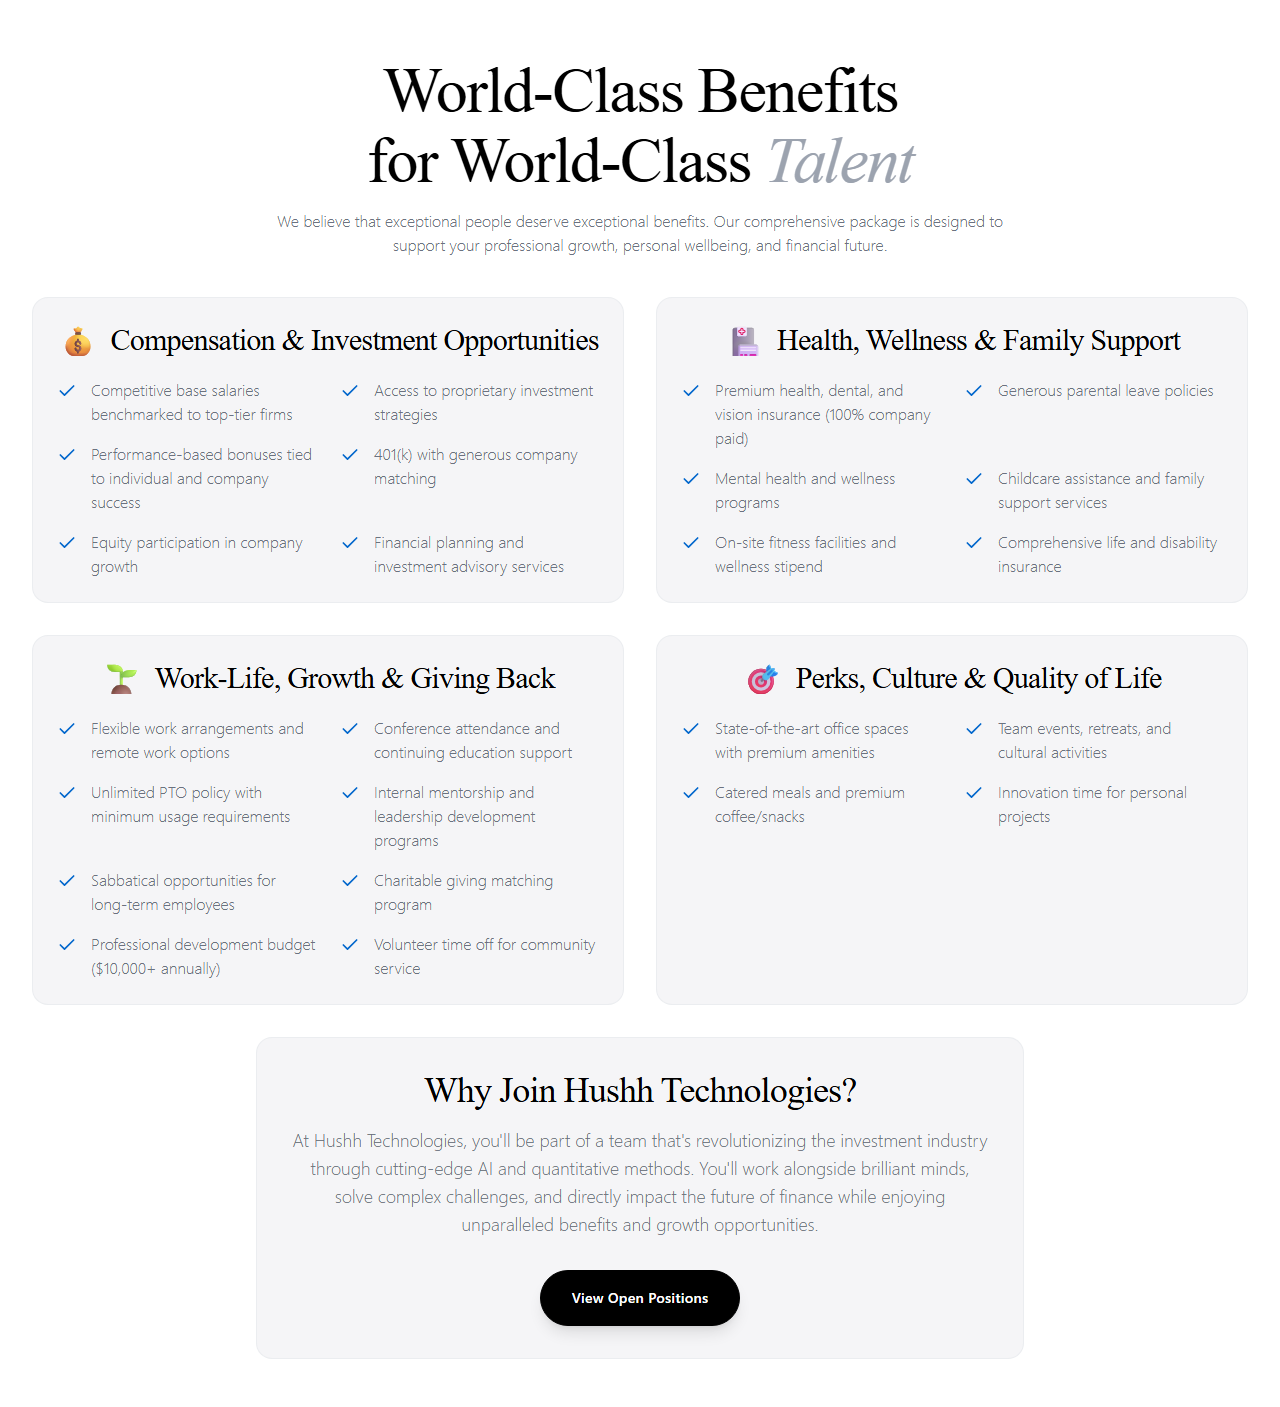
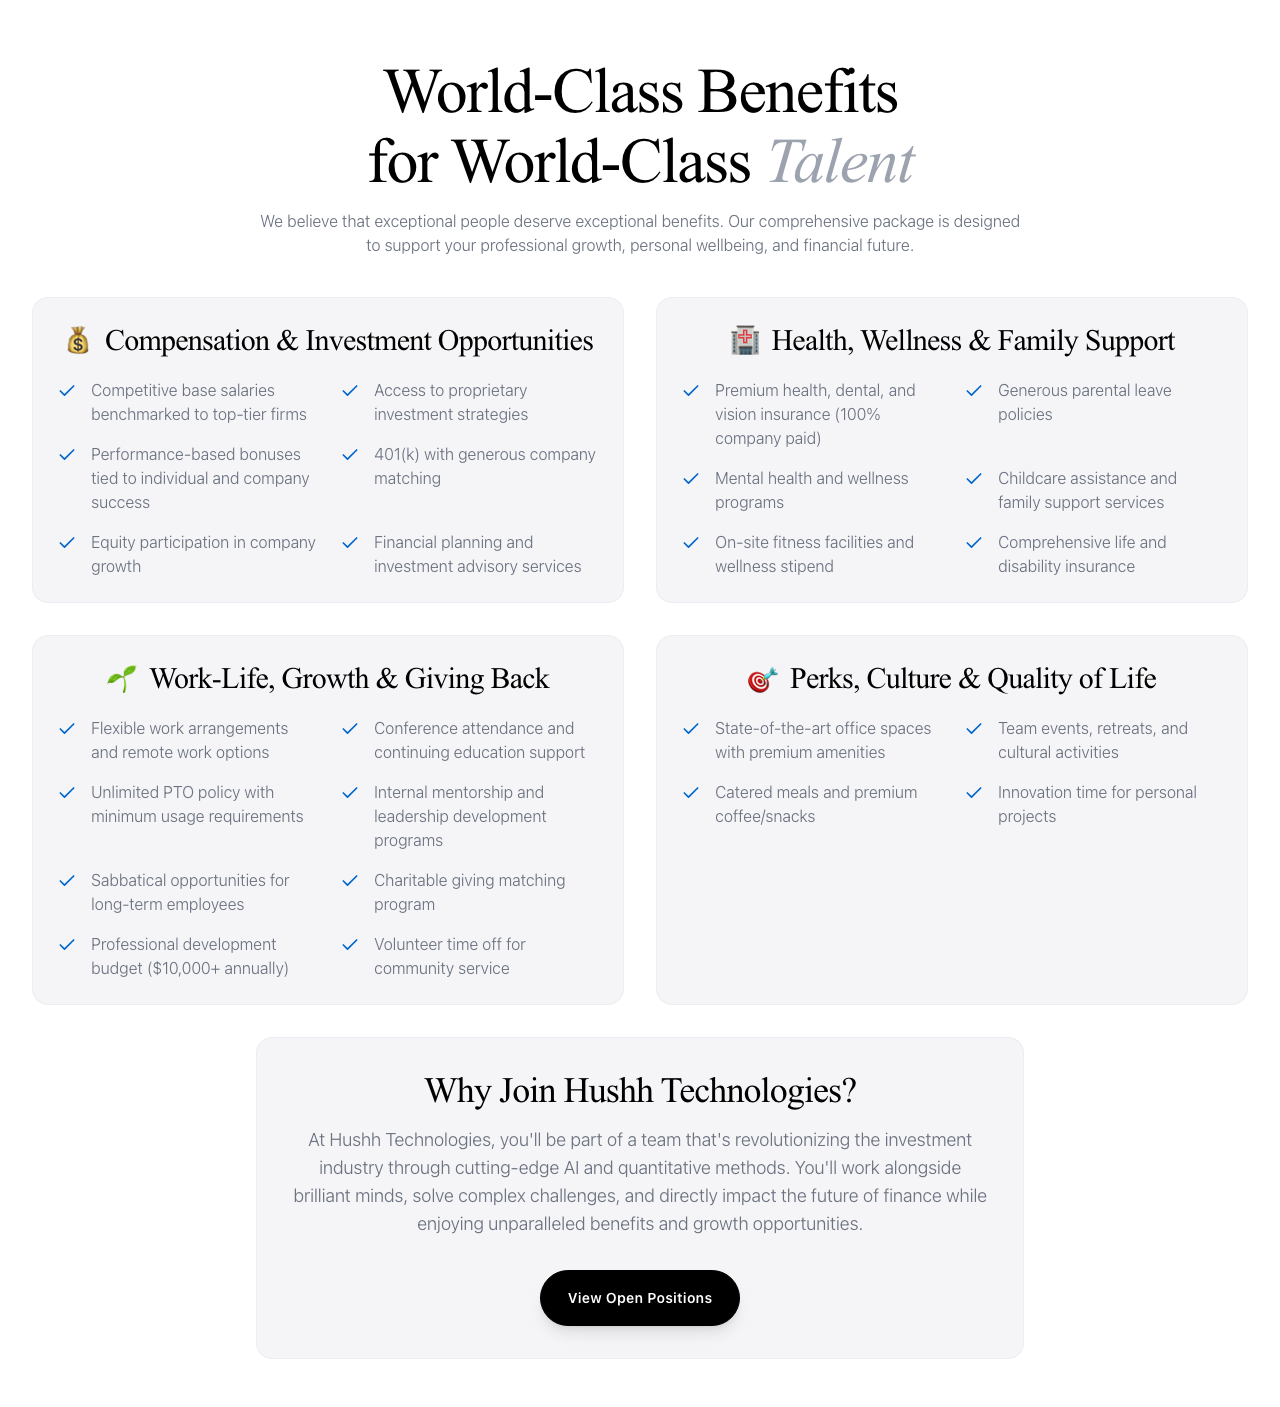
test(ui): add mobile benefits grid proof

diff --git a/docs/pr-proof/benefits-card-grid-spacing/README.md b/docs/pr-proof/benefits-card-grid-spacing/README.md
@@ -7,6 +7,7 @@ Proof captured with Playwright from a local Vite proof page that imports the rea
 Screenshots:
 
 - `benefits-card-grid-desktop.png` - desktop-width benefits card grid with two-column cards, consistent gaps, and full-width CTA card.
+- `benefits-card-grid-mobile.png` - narrow mobile benefits card grid with single-column cards and preserved row spacing.
 
 Recreate:
 
